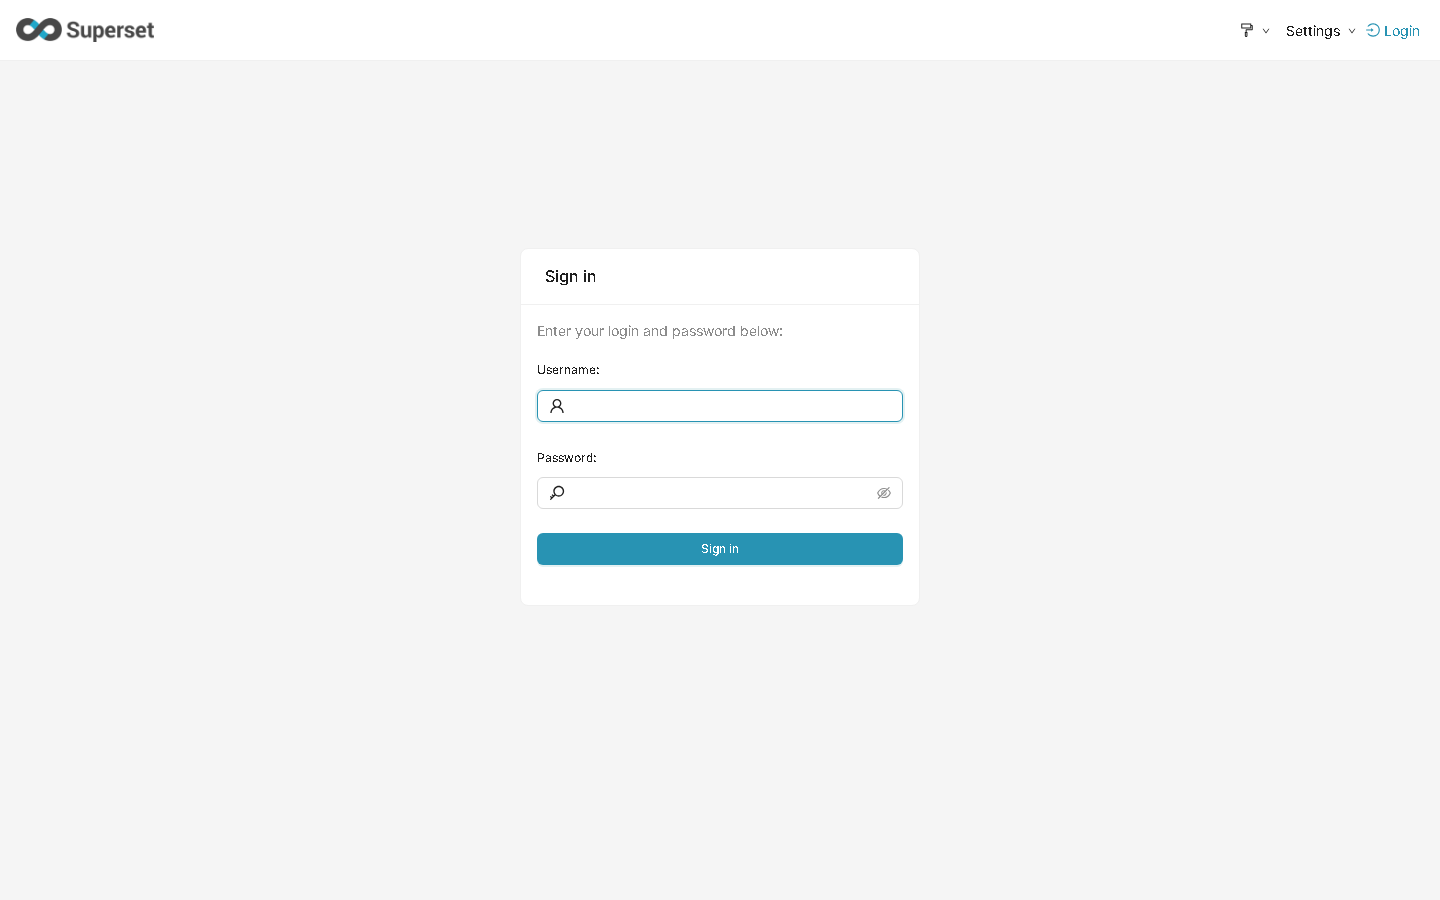
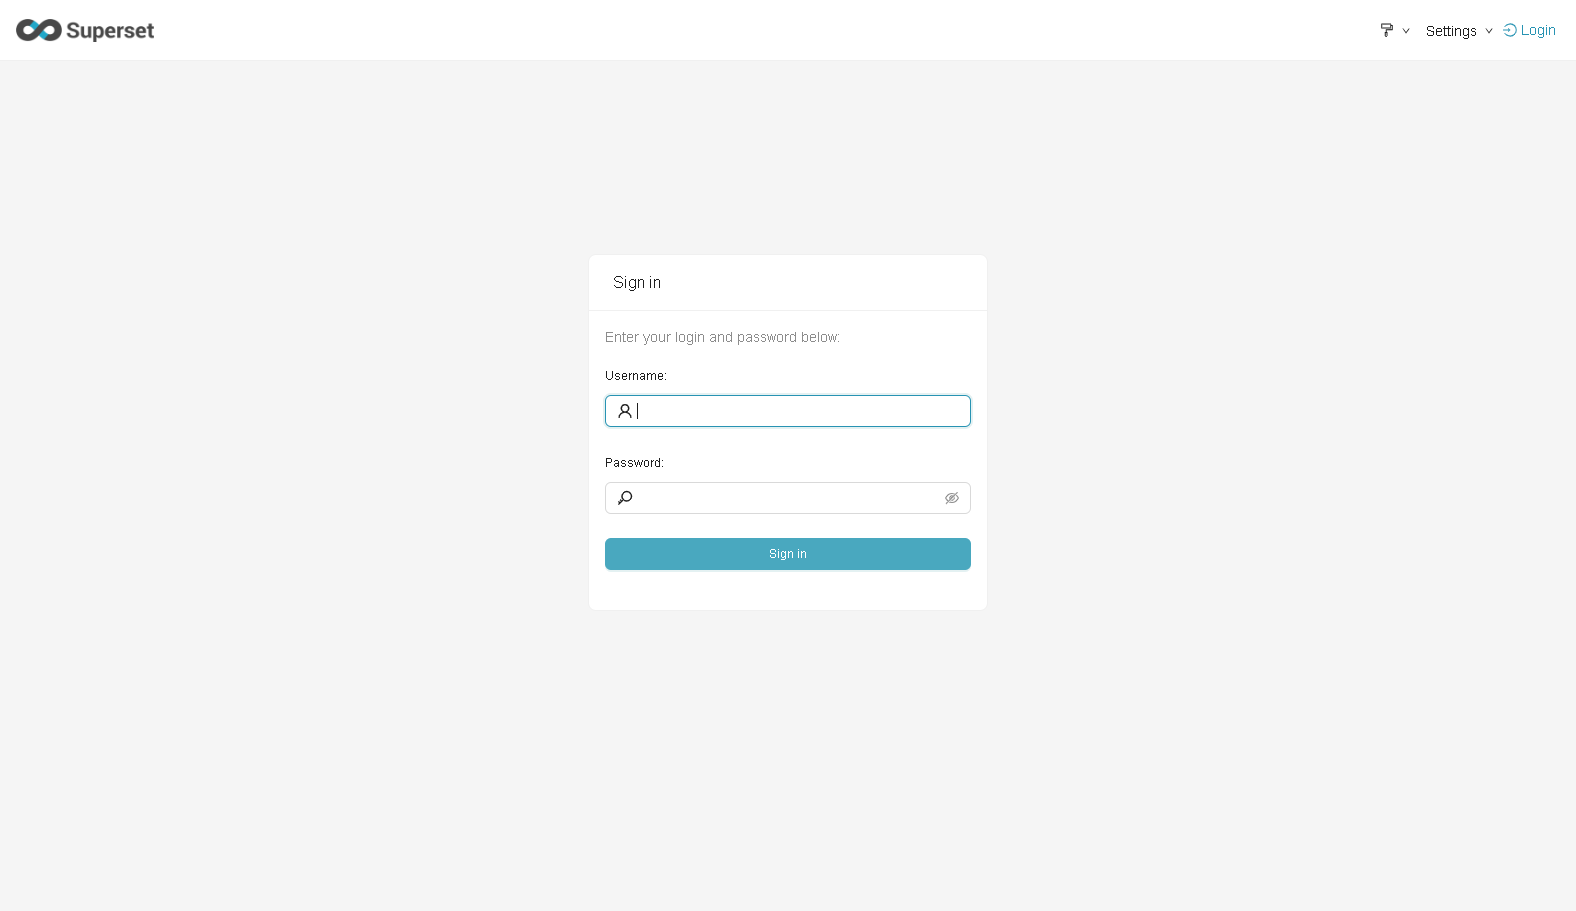
feat(modal): add dynamic year selector (nav buttons and dropdown) to modal header, adjust padding-top to 210px and update screenshots

diff --git a/src/CalendarFilter.tsx b/src/CalendarFilter.tsx
@@ -1144,7 +1144,37 @@ export default function CalendarFilter(props: CalendarFilterProps) {
           <ModalOverlay onClick={() => setIsModalOpen(false)}>
             <ModalContent onClick={e => e.stopPropagation()}>
               <ModalHeader>
-                <ModalTitle>📅 Calendar Filter — Vista Annuale {viewYear}</ModalTitle>
+                <div style={{ display: 'flex', alignItems: 'center', gap: '12px' }}>
+                  <ModalTitle>📅 Calendar Filter — Vista Annuale</ModalTitle>
+                  <div style={{ display: 'flex', alignItems: 'center', gap: '6px' }}>
+                    <NavButton
+                      type="button"
+                      onClick={() => setViewYear(y => y - 1)}
+                      title="Anno precedente"
+                      style={{ padding: '4px 10px', fontSize: '12px' }}
+                    >
+                      ◀
+                    </NavButton>
+                    <YearSelect
+                      value={viewYear}
+                      onChange={e => setViewYear(Number(e.target.value))}
+                      aria-label="Seleziona anno"
+                      style={{ padding: '4px 8px', fontSize: '13px', fontWeight: 600, borderRadius: '6px', border: '1px solid #cbd5e1' }}
+                    >
+                      {availableYears.map(y => (
+                        <option key={y} value={y}>{y}</option>
+                      ))}
+                    </YearSelect>
+                    <NavButton
+                      type="button"
+                      onClick={() => setViewYear(y => y + 1)}
+                      title="Anno successivo"
+                      style={{ padding: '4px 10px', fontSize: '12px' }}
+                    >
+                      ▶
+                    </NavButton>
+                  </div>
+                </div>
                 <ModalCloseButton type="button" onClick={() => setIsModalOpen(false)}>
                   ✕ Chiudi
                 </ModalCloseButton>
@@ -1449,7 +1479,37 @@ export default function CalendarFilter(props: CalendarFilterProps) {
         <ModalOverlay onClick={() => setIsModalOpen(false)}>
           <ModalContent onClick={e => e.stopPropagation()}>
             <ModalHeader>
-              <ModalTitle>📅 Calendar Filter — Vista Annuale {viewYear}</ModalTitle>
+              <div style={{ display: 'flex', alignItems: 'center', gap: '12px' }}>
+                <ModalTitle>📅 Calendar Filter — Vista Annuale</ModalTitle>
+                <div style={{ display: 'flex', alignItems: 'center', gap: '6px' }}>
+                  <NavButton
+                    type="button"
+                    onClick={() => setViewYear(y => y - 1)}
+                    title="Anno precedente"
+                    style={{ padding: '4px 10px', fontSize: '12px' }}
+                  >
+                    ◀
+                  </NavButton>
+                  <YearSelect
+                    value={viewYear}
+                    onChange={e => setViewYear(Number(e.target.value))}
+                    aria-label="Seleziona anno"
+                    style={{ padding: '4px 8px', fontSize: '13px', fontWeight: 600, borderRadius: '6px', border: '1px solid #cbd5e1' }}
+                  >
+                    {availableYears.map(y => (
+                      <option key={y} value={y}>{y}</option>
+                    ))}
+                  </YearSelect>
+                  <NavButton
+                    type="button"
+                    onClick={() => setViewYear(y => y + 1)}
+                    title="Anno successivo"
+                    style={{ padding: '4px 10px', fontSize: '12px' }}
+                  >
+                    ▶
+                  </NavButton>
+                </div>
+              </div>
               <ModalCloseButton type="button" onClick={() => setIsModalOpen(false)}>
                 ✕ Chiudi
               </ModalCloseButton>

diff --git a/docs/CHANGELOG.md b/docs/CHANGELOG.md
@@ -2,8 +2,11 @@
 
 ## [0.1.4] — 2026-07-28
 
+### Added
+- **Selettore Anno Dinamico nel Modal**: aggiunti i pulsanti di navigazione anno (`◀`, `▶`) ed il menu a tendina di selezione anno (`<YearSelect>`) nell'header della finestra modale (Native Filter e Chart), consentendo la selezione e navigazione diretta tra qualsiasi anno (2024, 2025, 2026, 2027, ecc.).
+
 ### Changed
-- **Modal Vista Annuale — Layout Rettangolare & Posizionamento**: abbassata l'origine del modal (`padding-top: 145px`) per evitare qualsiasi sovrapposizione con l'header e le schede della dashboard Superset; allargato il contenitore a `width: 96%` e `max-width: 1350px` per una visualizzazione rettangolare panoramica a 12 mesi.
+- **Modal Vista Annuale — Layout Rettangolare & Posizionamento**: regolata l'origine del modal (`padding-top: 210px`) per posizionarlo perfettamente al di sotto delle barre di intestazione/schede della dashboard Superset; allargato il contenitore a `width: 96%` e `max-width: 1350px` per una visualizzazione panoramica rettangolare a 12 mesi.
 
 ### Fixed
 - **Webpack Stub Modules (0 error build)**: creati stub completi in `/app/superset-frontend/node_modules/` per `@deck.gl/widgets` (export sia prefissati `_` che standard), `@react-spring/web` (`animated`, `a`, `useTransition`, `useSpring`, ecc.), e `@fontsource/inter` (`100-900.css`). Il webpack-dev-server di Superset 6.1.0 compila ora con **0 errori**.
